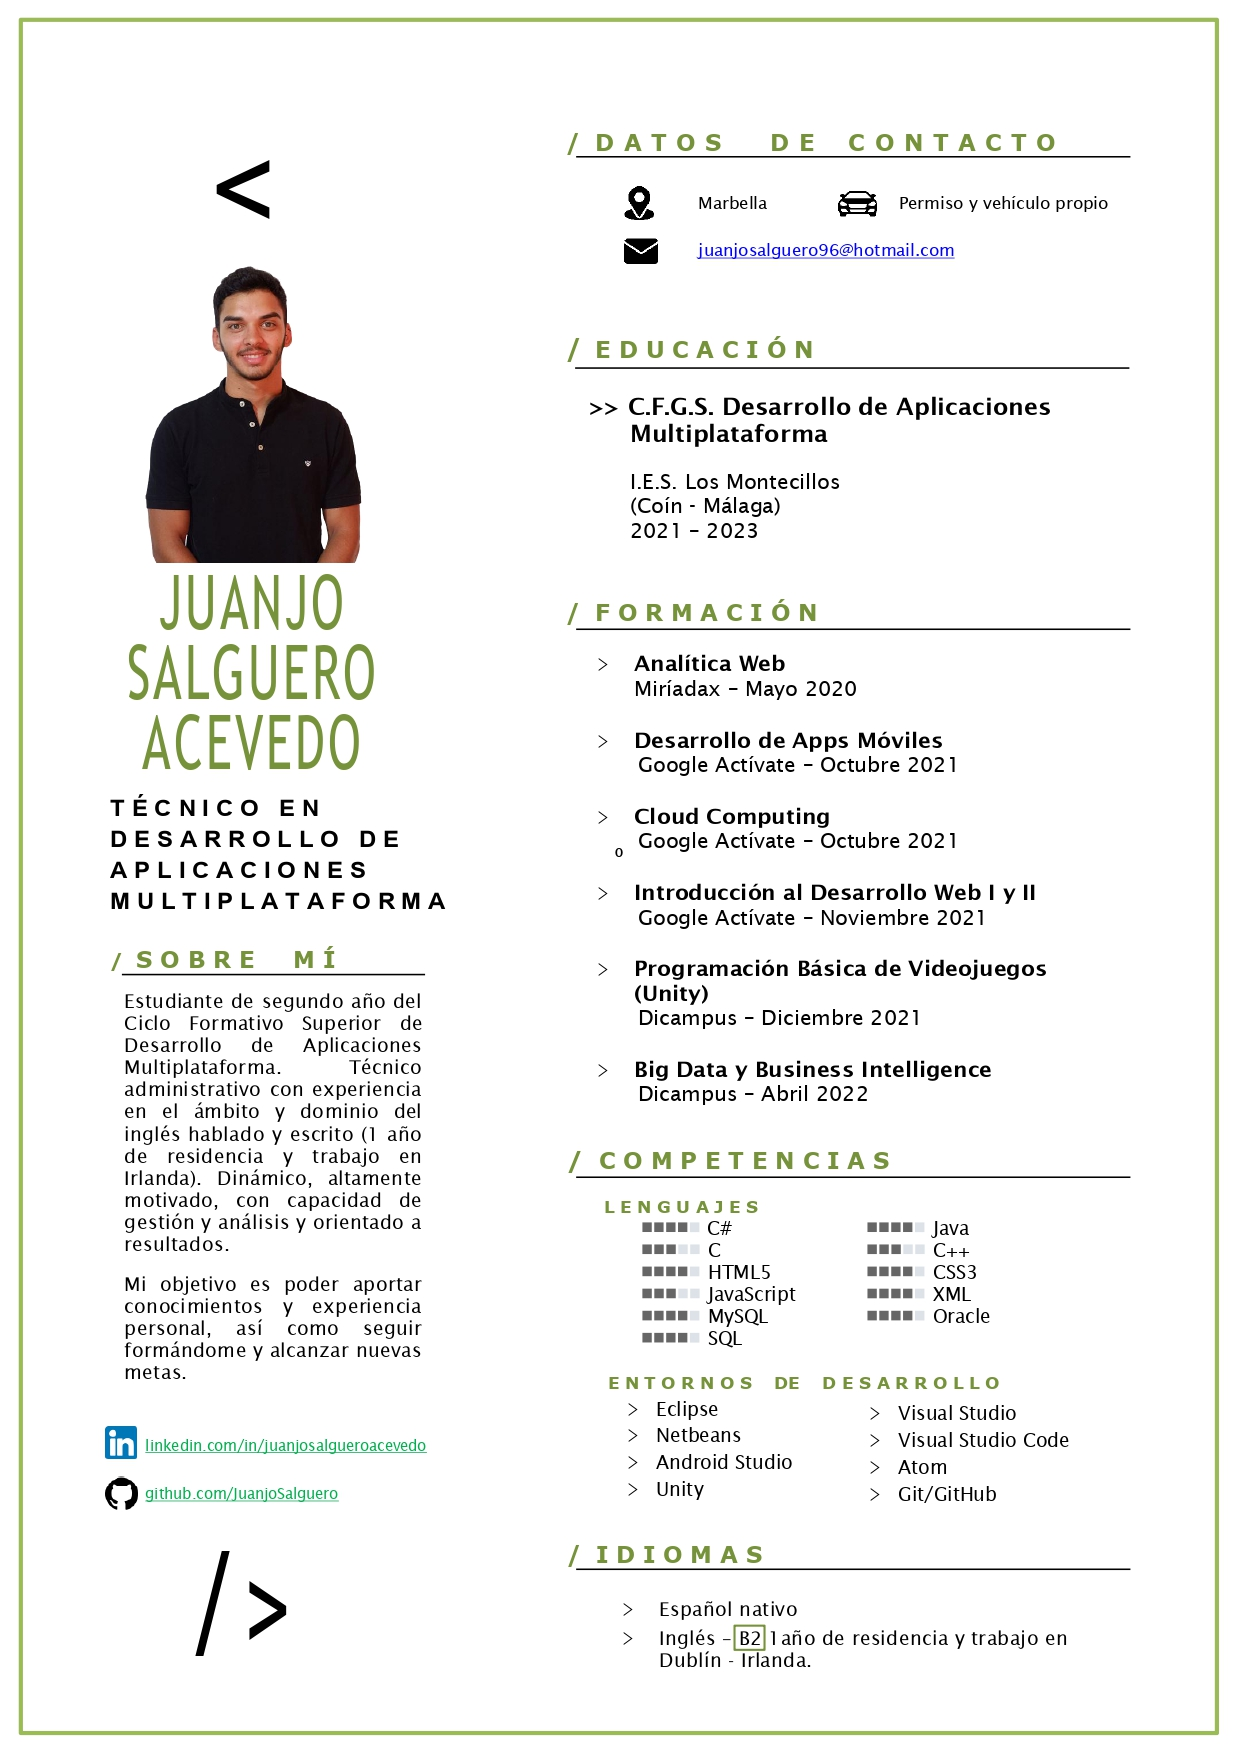
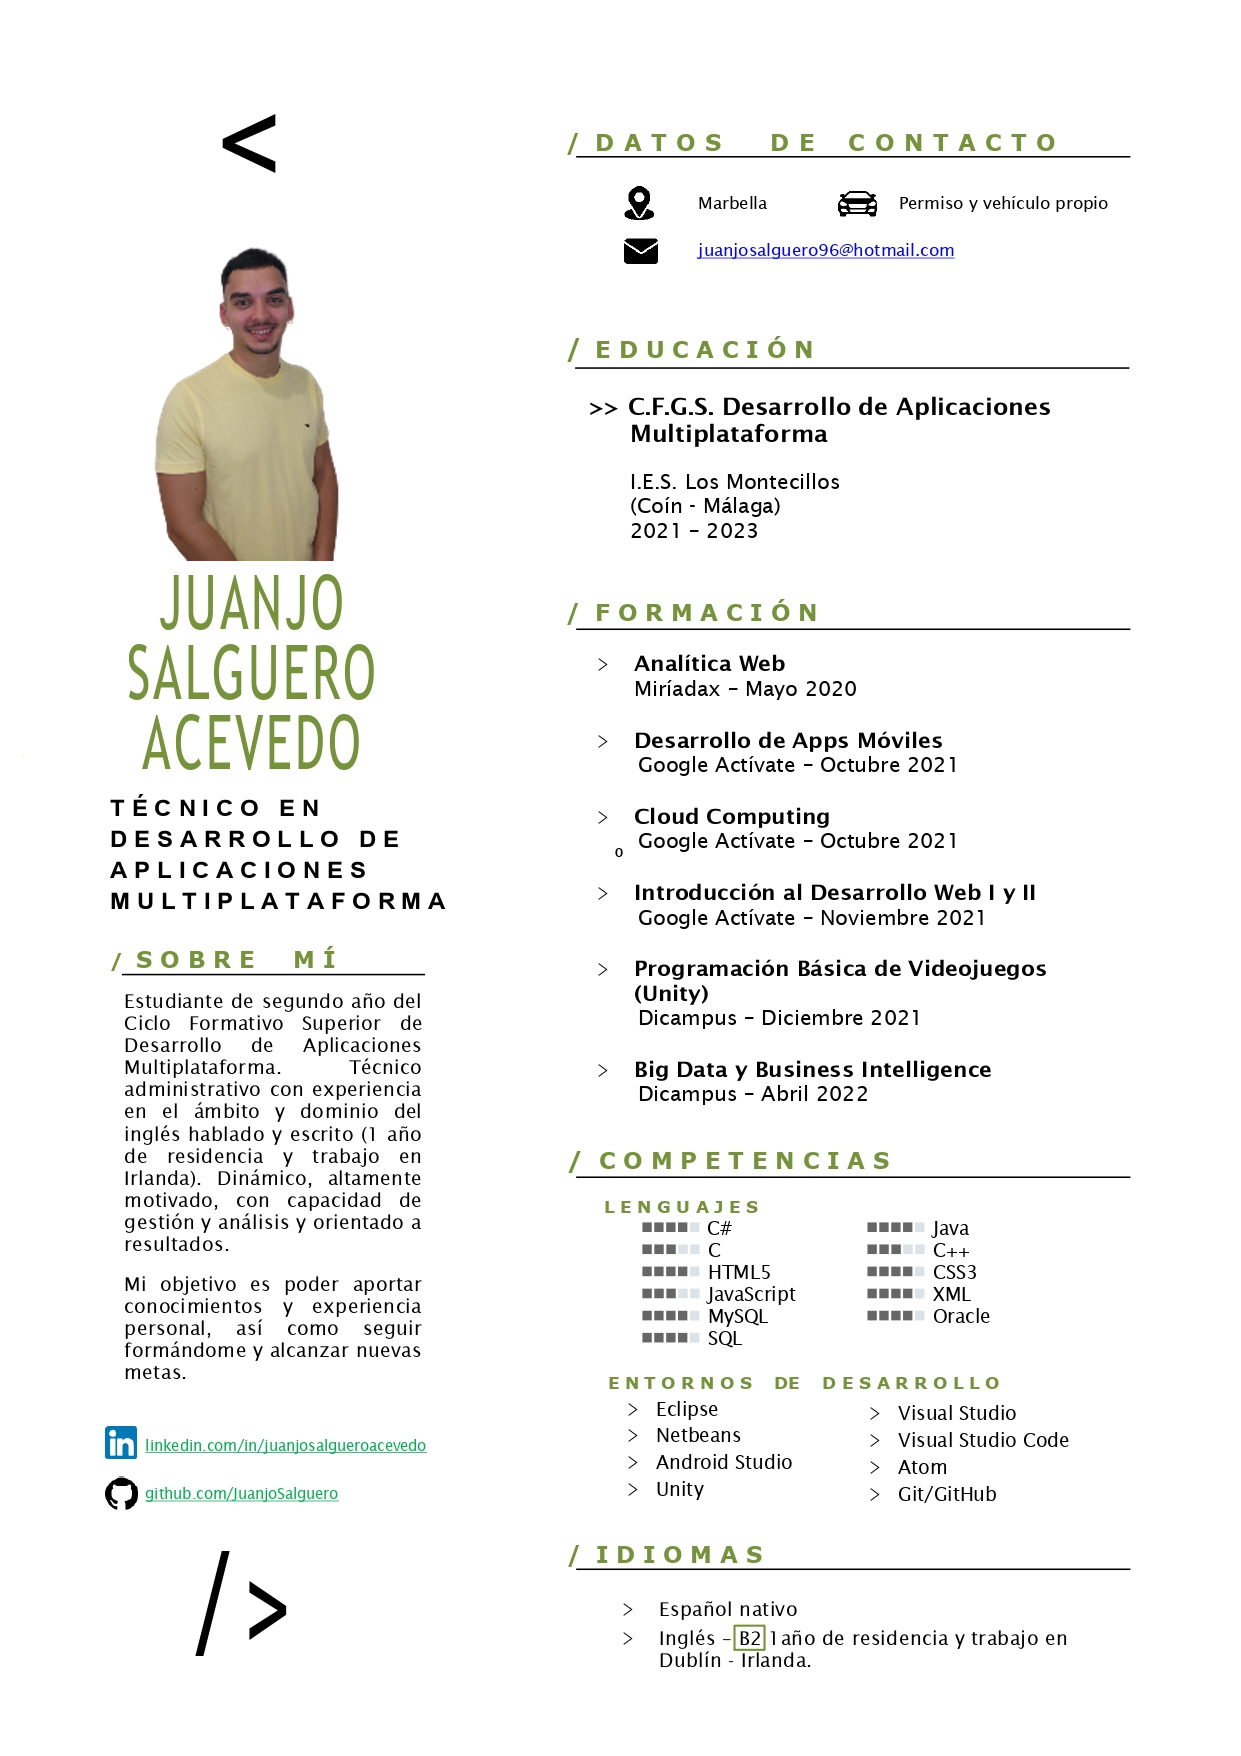
Chaning personal img and other details

Changed region(s): [[0.0, 0.0, 0.9799, 1.0], [0.0919, 0.0615, 0.3062, 0.3383], [0.9492, 0.0, 1.0, 0.9841]]

diff --git a/index.html b/index.html
@@ -53,13 +53,13 @@
     </header>
 
     <main>
-        <section class="contenedor sobre-nosotros" id="about">
+        <section class="contenedor sobre-mi" id="about">
             <h2 class="titulo">
                 <i class="fa-solid fa-address-card"></i>
                 Introducing myself
             </h2>
-            <div class="contenedor-sobre-nosotros">
-                <img src="img/me.png" alt="" class="imagen-about-us">
+            <div class="contenedor-sobre-mi">
+                <img src="img/JuanjoS.png" alt="" class="imagen-about-me">
                 <div class="contenido-textos">
                     My name is Juanjo, I live in Marbella, Málaga and I am 26 years old.
                     I am currently studying a second year Higher Level Training Cycle in Multiplatform
@@ -151,11 +151,11 @@
                         <span class="code">&#47;&gt;</span>
                     </p>
                 </a>
-                <a href="https://juanjosalguero.github.io/NavFlexBox/" target="_blank" class="project project-tile">
-                    <img class="project-image" src="img/navbar.png" alt="project" />
+                <a href="https://github.com/JuanjoSalguero/SurveyApp" target="_blank" class="project project-tile">
+                    <img class="project-image" src="img/jammy.jpg" alt="project" />
                     <p class="project-title">
                         <span class="code">&lt;</span>
-                        Responsive Navigation Bar - HTML CSS
+                        JavaFX Groupal Survey App
                         <span class="code">&#47;&gt;</span>
                     </p>
                 </a>

diff --git a/css/responsive.css b/css/responsive.css
@@ -3,7 +3,7 @@
 /* ------------------------------------------------- 1400px ------------------------------------------------- */
 
 @media screen and (max-width: 1400px) {
-    .contenedor-sobre-nosotros {
+    .contenedor-sobre-mi {
         flex-direction: column;
         justify-content: center;
         align-items: center;
@@ -14,11 +14,11 @@
         height: 850px;
     }
 
-    .-image-about-us {
-        width: 40%;
+    .-image-about-me {
+        width: 45%;
     }
 
-    .sobre-nosotros .contenido-textos {
+    .sobre-mi .contenido-textos {
         color: black
     }
 }
@@ -120,18 +120,18 @@
         order: 2;
     }
 
-    .contenedor-sobre-nosotros {
+    .contenedor-sobre-mi {
         flex-direction: column;
         justify-content: center;
         align-items: center;
     }
 
-    .sobre-nosotros .contenido-textos {
+    .sobre-mi .contenido-textos {
         width: 90%;
     }
 
-    .imagen-about-us {
-        width: 70%;
+    .imagen-about-me {
+        width: 75%;
     }
 
     .slider .slide-track {
@@ -221,12 +221,12 @@
     }
 
 
-    .imagen-about-us {
-        margin-bottom: 60px;
+    .imagen-about-me {
+        margin-bottom: 10px;
         width: 99%;
     }
 
-    .sobre-nosotros .contenido-textos {
+    .sobre-mi .contenido-textos {
         width: 95%;
     }
 

diff --git a/css/estilos.css b/css/estilos.css
@@ -51,7 +51,7 @@ header {
 /* Basic styling */
 nav {
     background-color: black;
-    padding: 2px 300px;
+    padding: 2px 280px;
     position: fixed;
     width: 100%;
     box-shadow: rgba(0, 0, 0, 0.35) 0px 5px 15px;
@@ -146,21 +146,21 @@ main {
     background-attachment: scroll;
 }
 
-main .sobre-nosotros {
+main .sobre-mi {
     padding: 50px 10px 0 0;
     max-width: 1250px;
 }
 
-.contenedor-sobre-nosotros {
+.contenedor-sobre-mi {
     display: flex;
     justify-content: space-between;
 }
 
-.imagen-about-us {
-    width: 35%;
+.imagen-about-me {
+    width: 40%;
 }
 
-.sobre-nosotros .contenido-textos {
+.sobre-mi .contenido-textos {
     padding-top: 50px;
     padding-bottom: 60px;
     width: 55%;
